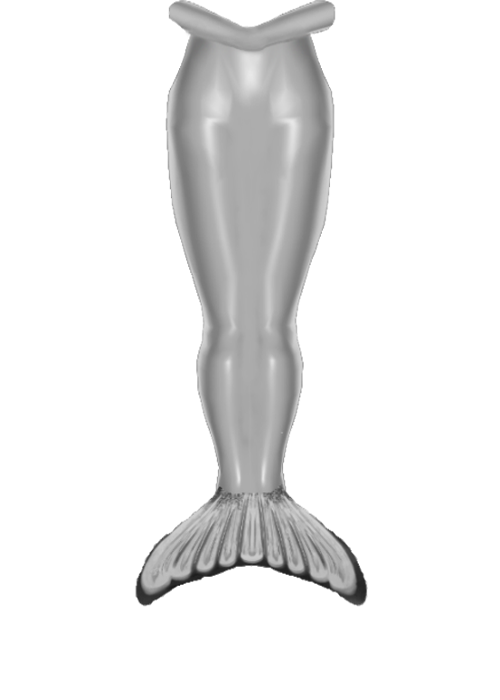
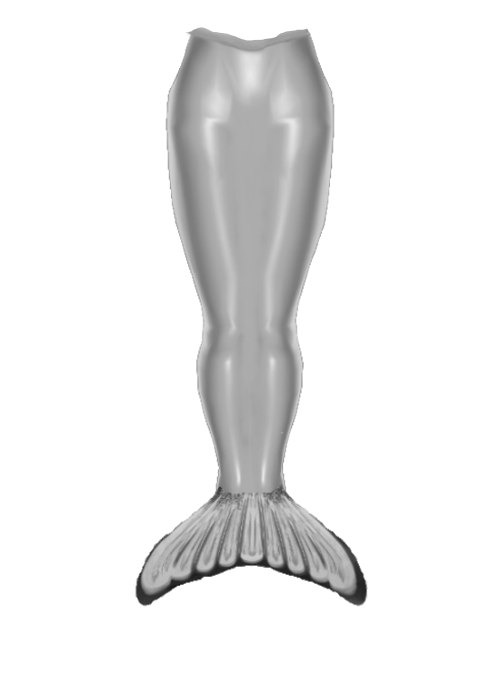
Item preveiws and tail fix
tail was clipping so thats fixed, and the preveiws are added in as well

Changed region(s): [[0.33, 0.0, 0.69, 0.06]]

diff --git a/BondageClub/Assets/Female3DCG/Female3DCG.js b/BondageClub/Assets/Female3DCG/Female3DCG.js
@@ -1046,14 +1046,15 @@ var AssetFemale3DCG = [
 			{ Name: "FrogtieStraps", Fetish: ["Leather"], Value: 25, Time: 5, Random: false, AllowLock: true, Prerequisite: ["NotSuspended", "CanKneel"], SetPose: ["Kneel"], Effect: ["ForceKneel"] },
 			{
 				Name: "MermaidTail", 
-				Value: 120, Left: 0, Top: 390, Difficulty: 15, Time: 30, RemoveTime: 20, AllowLock: true, DefaultColor: "#0D7800", ArousalZone: "ItemVulva",
+				Value: 120, Left: 0, Top: 380, Difficulty: 15, Time: 30, RemoveTime: 20, AllowLock: true, DefaultColor: "#0D7800", ArousalZone: "ItemVulva",
 				Fetish: ["Latex", "Pet"], 
 				Prerequisite: ["NotSuspended", "NotHogtied", "AccessVulva", "AccessVulvaSuitZip"],
 				Hide: ["Shoes", "Socks", "BodyLower", "ClothLower", "ItemFeet", "ItemBoots"],
 				SetPose: ["LegsClosed"],
 				Effect: ["Prone", "Freeze", "FillVulva", "Egged"], 
 				AllowEffect: ["Egged", "Vibrating", "FillVulva", "Edged"],
-				Block: ["ItemFeet", "ItemBoots"],
+				AllowPose: ["BackBoxTie", "BackCuffs", "BackElbowTouch", "TapedHands", "Yoked"],
+				Block: ["ItemFeet", "ItemBoots", "ItemPelvis", "ItemVulva", "ItemVulvaPiercings", "ItemButt"],
 			},
 			AssetSpankingToys
 		],
@@ -2382,27 +2383,27 @@ var AssetFemale3DCG = [
 		Top: 20,
 		Zone: [[325, 0, 75, 130]],
 		Asset: [
-			{ Name: "LeatherHoodSealed", Fetish: ["Leather"], Value: 70, Difficulty: 50, Time: 15, AllowLock: true, DefaultColor: "#555555", Prerequisite: ["NotHogtied", "CanUseAlphaHood"], Hide: ["Head", "HairFront", "HairBack", "Glasses", "ItemMouth", "ItemMouth2", "ItemMouth3", "Hat", "HairAccessory1", "HairAccessory2", "Mask"], HideItem: ["Snorkel"], Effect: ["BlindHeavy", "Prone", "GagLight", "BlockMouth"], Block: ["ItemMouth", "ItemMouth2", "ItemMouth3", "ItemEars", "ItemNeck", "ItemHead", "ItemNose"] },
-			{ Name: "PolishedSteelHood", Fetish: ["Metal"], Value: 85, Difficulty: 50, Time: 15, AllowLock: true, Hide: ["HairFront", "HairBack", "Glasses", "ItemMouth", "ItemMouth2", "ItemMouth3", "HairAccessory1", "HairAccessory2", "Mask"], HideItem: ["HatBand1", "HatBand2", "HatTiara1", "Snorkel"], Effect: ["BlindHeavy", "DeafLight", "Prone", "GagHeavy", "BlockMouth"], Block: ["ItemMouth", "ItemMouth2", "ItemMouth3", "ItemNeck", "ItemHead", "ItemNose", "ItemEars"] },
-			{ Name: "InflatedBallHood", Fetish: ["Latex"], Value: 65, Difficulty: 50, Time: 15, AllowLock: true, Prerequisite: ["GagUnique"], Hide: ["HairFront", "HairBack", "Glasses", "ItemMouth", "ItemMouth2", "ItemMouth3", "HairAccessory1", "HairAccessory2", "ItemHat", "Mask"], HideItem: ["Snorkel"], Effect: ["BlindHeavy", "DeafLight", "Prone", "BlockMouth"], AllowEffect: ["GagLight", "GagEasy", "GagMedium", "GagVeryHeavy", "BlockMouth"], Block: ["ItemMouth", "ItemMouth2", "ItemMouth3", "ItemNeck", "ItemHead", "ItemNose", "ItemEars"], Extended: true },
+			{ Name: "LeatherHoodSealed", Fetish: ["Leather"], Value: 70, Difficulty: 50, Time: 15, AllowLock: true, DefaultColor: "#555555", Prerequisite: ["NotHogtied", "CanUseAlphaHood"], Hide: ["Head", "HairFront", "HairBack", "Glasses", "ItemMouth", "ItemMouth2", "ItemMouth3", "Hat", "HairAccessory1", "HairAccessory2", "Mask"], HideItem: ["ItemHeadSnorkel"], Effect: ["BlindHeavy", "Prone", "GagLight", "BlockMouth"], Block: ["ItemMouth", "ItemMouth2", "ItemMouth3", "ItemEars", "ItemNeck", "ItemHead", "ItemNose"] },
+			{ Name: "PolishedSteelHood", Fetish: ["Metal"], Value: 85, Difficulty: 50, Time: 15, AllowLock: true, Hide: ["HairFront", "HairBack", "Glasses", "ItemMouth", "ItemMouth2", "ItemMouth3", "HairAccessory1", "HairAccessory2", "Mask"], HideItem: ["HatBand1", "HatBand2", "HatTiara1", "ItemHeadSnorkel"], Effect: ["BlindHeavy", "DeafLight", "Prone", "GagHeavy", "BlockMouth"], Block: ["ItemMouth", "ItemMouth2", "ItemMouth3", "ItemNeck", "ItemHead", "ItemNose", "ItemEars"] },
+			{ Name: "InflatedBallHood", Fetish: ["Latex"], Value: 65, Difficulty: 50, Time: 15, AllowLock: true, Prerequisite: ["GagUnique"], Hide: ["HairFront", "HairBack", "Glasses", "ItemMouth", "ItemMouth2", "ItemMouth3", "HairAccessory1", "HairAccessory2", "ItemHat", "Mask"], HideItem: ["ItemHeadSnorkel"], Effect: ["BlindHeavy", "DeafLight", "Prone", "BlockMouth"], AllowEffect: ["GagLight", "GagEasy", "GagMedium", "GagVeryHeavy", "BlockMouth"], Block: ["ItemMouth", "ItemMouth2", "ItemMouth3", "ItemNeck", "ItemHead", "ItemNose", "ItemEars"], Extended: true },
 			{
-				Name: "OldGasMask", Fetish: ["Leather"], Value: 85, Difficulty: 25, Time: 10, Random: false, AllowLock: true, Prerequisite: ["GasMask"], DefaultColor: "#313131", Hide: ["HairFront", "HairBack", "Glasses", "ItemMouth", "ItemMouth2", "ItemMouth3", "HairAccessory1", "HairAccessory2", "Mask"], HideItem: "Snorkel", Effect: ["BlockMouth"], Block: ["ItemMouth", "ItemMouth2", "ItemMouth3", "ItemNeck", "ItemHead", "ItemNose", "ItemEars"], Extended: true, RemoveItemOnRemove: [{ Group: "ItemHoodAddon", Name: "" }], Layer: [
+				Name: "OldGasMask", Fetish: ["Leather"], Value: 85, Difficulty: 25, Time: 10, Random: false, AllowLock: true, Prerequisite: ["GasMask"], DefaultColor: "#313131", Hide: ["HairFront", "HairBack", "Glasses", "ItemMouth", "ItemMouth2", "ItemMouth3", "HairAccessory1", "HairAccessory2", "Mask"], HideItem: ["ItemHeadSnorkel"], Effect: ["BlockMouth"], Block: ["ItemMouth", "ItemMouth2", "ItemMouth3", "ItemNeck", "ItemHead", "ItemNose", "ItemEars"], Extended: true, RemoveItemOnRemove: [{ Group: "ItemHoodAddon", Name: "" }], Layer: [
 					{ Name: "Mask", AllowColorize: true },
 					{ Name: "Light", AllowColorize: false }
 				]
 			},
-			{ Name: "SackHood", Fetish: ["Rope"], Value: 20, Difficulty: 3, Time: 5, Hide: ["HairFront", "HairBack", "Glasses", "ItemMouth", "ItemMouth2", "ItemMouth3", "HairAccessory1", "HairAccessory2", "Hat", "Mask"], HideItem: ["Snorkel"], Effect: ["Prone", "BlindHeavy", "BlockMouth"], Block: ["ItemEars", "ItemMouth", "ItemMouth2", "ItemMouth3", "ItemHead", "ItemNose"] },
+			{ Name: "SackHood", Fetish: ["Rope"], Value: 20, Difficulty: 3, Time: 5, Hide: ["HairFront", "HairBack", "Glasses", "ItemMouth", "ItemMouth2", "ItemMouth3", "HairAccessory1", "HairAccessory2", "Hat", "Mask"], HideItem: ["ItemHeadSnorkel"], Effect: ["Prone", "BlindHeavy", "BlockMouth"], Block: ["ItemEars", "ItemMouth", "ItemMouth2", "ItemMouth3", "ItemHead", "ItemNose"] },
 			{ Name: "LeatherHoodSensDep", Fetish: ["Leather"], Value: 100, Difficulty: 50, Time: 15, AllowLock: true, DefaultColor: "#555555", Prerequisite: ["NotHogtied", "CanUseAlphaHood"], Hide: ["Head", "HairFront", "HairBack", "Glasses", "ItemMouth", "ItemMouth2", "ItemMouth3", "Hat", "HairAccessory1", "HairAccessory2", "Mask"], Effect: ["BlindHeavy", "DeafHeavy", "Prone", "GagHeavy", "BlockMouth"], Block: ["ItemMouth", "ItemMouth2", "ItemMouth3", "ItemEars", "ItemNeck", "ItemHead", "ItemNose"] },
 			{ Name: "LatexHoodOpenHair", Fetish: ["Latex"], Value: 45, Difficulty: 50, Time: 15, AllowLock: true, DefaultColor: "#555555", Prerequisite: ["NotHogtied", "CanUseAlphaHood"], Hide: ["HairFront", "HairBack", "Hat", "HairAccessory1", "HairAccessory2", "Mask"], Alpha: [{ Group: ["Head"], Masks: [[150, 50, 200, 87]] }], Block: ["ItemEars", "ItemHead", "ItemNose"] },
-			{ Name: "LeatherHood", Fetish: ["Leather"], Value: 60, Difficulty: 50, Time: 15, AllowLock: true, DefaultColor: "#404040", Hide: ["HairFront", "HairBack", "Glasses", "ItemMouth", "ItemMouth2", "ItemMouth3", "HairAccessory1", "HairAccessory2", "Mask"], HideItem: ["Snorkel"], Effect: ["BlindHeavy", "DeafLight", "Prone", "GagNormal", "BlockMouth"], Block: ["ItemMouth", "ItemMouth2", "ItemMouth3", "ItemEars", "ItemNeck", "ItemHead", "ItemNose"] },
+			{ Name: "LeatherHood", Fetish: ["Leather"], Value: 60, Difficulty: 50, Time: 15, AllowLock: true, DefaultColor: "#404040", Hide: ["HairFront", "HairBack", "Glasses", "ItemMouth", "ItemMouth2", "ItemMouth3", "HairAccessory1", "HairAccessory2", "Mask"], HideItem: ["ItemHeadSnorkel"], Effect: ["BlindHeavy", "DeafLight", "Prone", "GagNormal", "BlockMouth"], Block: ["ItemMouth", "ItemMouth2", "ItemMouth3", "ItemEars", "ItemNeck", "ItemHead", "ItemNose"] },
 			{ Name: "LeatherHoodOpenEyes", Fetish: ["Leather"], Value: 40, Difficulty: 50, Time: 15, AllowLock: true, DefaultColor: "#404040", Hide: ["HairFront", "HairBack", "Glasses", "ItemMouth", "ItemMouth2", "ItemMouth3", "HairAccessory1", "HairAccessory2"], Effect: ["GagLight", "BlockMouth"], Block: ["ItemHead", "ItemNose", "ItemMouth", "ItemMouth2", "ItemMouth3", "ItemEars", "ItemNeck"] },
-			{ Name: "GasMask", Fetish: ["Leather"], Value: 50, Difficulty: 25, Time: 10, Random: false, AllowLock: true, DefaultColor: "#585858", Hide: ["HairFront", "HairBack", "Glasses", "ItemMouth", "ItemMouth2", "ItemMouth3", "HairAccessory1", "HairAccessory2", "Mask"], HideItem: ["Snorkel"], Effect: ["BlockMouth"], Block: ["ItemMouth", "ItemMouth2", "ItemMouth3", "ItemEars", "ItemNeck", "ItemHead", "ItemNose"] },
+			{ Name: "GasMask", Fetish: ["Leather"], Value: 50, Difficulty: 25, Time: 10, Random: false, AllowLock: true, DefaultColor: "#585858", Hide: ["HairFront", "HairBack", "Glasses", "ItemMouth", "ItemMouth2", "ItemMouth3", "HairAccessory1", "HairAccessory2", "Mask"], HideItem: ["ItemHeadSnorkel"], Effect: ["BlockMouth"], Block: ["ItemMouth", "ItemMouth2", "ItemMouth3", "ItemEars", "ItemNeck", "ItemHead", "ItemNose"] },
 			{ Name: "DogHood", Fetish: ["Leather", "Pet"], Value: 60, Difficulty: 50, Time: 15, Random: false, AllowLock: true, DefaultColor: "#404040", Hide: ["HairFront", "HairBack", "Glasses", "ItemMouth", "ItemMouth2", "ItemMouth3", "HairAccessory1", "HairAccessory2", "Mask"], Effect: ["GagNormal", "BlockMouth"], Block: ["ItemMouth", "ItemMouth2", "ItemMouth3", "ItemEars", "ItemHead", "ItemNose"] },
 			{ Name: "FoxyMask", Fetish: ["Pet"], Value: 50, Difficulty: 2, Time: 15, Random: false, AllowLock: true, Effect: ["GagLight", "BlockMouth"], Block: ["ItemMouth", "ItemMouth2", "ItemMouth3", "ItemHead", "ItemNose"] },
-			{ Name: "PonyHood", Fetish: ["Pony"], Value: -1, Difficulty: 50, Time: 15, Random: false, AllowLock: true, DefaultColor: "#404040", Hide: ["HairFront", "HairBack", "Glasses", "ItemMouth", "ItemMouth2", "ItemMouth3", "HairAccessory1", "HairAccessory2", "Mask"], HideItem: ["Snorkel"], Effect: ["BlindHeavy", "DeafLight", "Prone", "GagNormal", "BlockMouth"], Block: ["ItemMouth", "ItemMouth2", "ItemMouth3", "ItemEars", "ItemNeck", "ItemHead", "ItemNose"] },
-			{ Name: "LeatherHoodOpenMouth", Fetish: ["Leather"], Value: 50, Difficulty: 50, Time: 15, AllowLock: true, DefaultColor: "#404040", Hide: ["HairFront", "HairBack", "Glasses", "HairAccessory1", "HairAccessory2", "Mask"], HideItem: ["Snorkel"], Effect: ["Prone", "BlindHeavy"], Block: ["ItemEars", "ItemHead", "ItemNose"] },
-			{ Name: "CanvasHood", Value: 50, Difficulty: 20, Time: 15, AllowLock: true, DefaultColor: "#a5a095", Hide: ["HairFront", "HairBack", "Glasses", "ItemMouth", "ItemMouth2", "ItemMouth3", "HairAccessory1", "HairAccessory2", "Mask"], HideItem: ["Snorkel"], Effect: ["Prone", "BlindHeavy", "GagHeavy", "BlockMouth", "DeafLight"], Block: ["ItemMouth", "ItemMouth2", "ItemMouth3", "ItemEars", "ItemNose", "ItemHead"] },
-			{ Name: "Pantyhose", Value: 10, Time: 5, Hide: ["Glasses", "Mask", "HairFront", "HairBack", "HairAccessory1", "HairAccessory2"], HideItem: ["Snorkel"], BuyGroup: "Pantyhose", Effect: ["BlindLight", "Prone"], Block: ["ItemMouth", "ItemMouth2", "ItemMouth3", "ItemNose", "ItemHead"] }
+			{ Name: "PonyHood", Fetish: ["Pony"], Value: -1, Difficulty: 50, Time: 15, Random: false, AllowLock: true, DefaultColor: "#404040", Hide: ["HairFront", "HairBack", "Glasses", "ItemMouth", "ItemMouth2", "ItemMouth3", "HairAccessory1", "HairAccessory2", "Mask"], HideItem: ["ItemHeadSnorkel"], Effect: ["BlindHeavy", "DeafLight", "Prone", "GagNormal", "BlockMouth"], Block: ["ItemMouth", "ItemMouth2", "ItemMouth3", "ItemEars", "ItemNeck", "ItemHead", "ItemNose"] },
+			{ Name: "LeatherHoodOpenMouth", Fetish: ["Leather"], Value: 50, Difficulty: 50, Time: 15, AllowLock: true, DefaultColor: "#404040", Hide: ["HairFront", "HairBack", "Glasses", "HairAccessory1", "HairAccessory2", "Mask"], HideItem: ["ItemHeadSnorkel"], Effect: ["Prone", "BlindHeavy"], Block: ["ItemEars", "ItemHead", "ItemNose"] },
+			{ Name: "CanvasHood", Value: 50, Difficulty: 20, Time: 15, AllowLock: true, DefaultColor: "#a5a095", Hide: ["HairFront", "HairBack", "Glasses", "ItemMouth", "ItemMouth2", "ItemMouth3", "HairAccessory1", "HairAccessory2", "Mask"], HideItem: ["ItemHeadSnorkel"], Effect: ["Prone", "BlindHeavy", "GagHeavy", "BlockMouth", "DeafLight"], Block: ["ItemMouth", "ItemMouth2", "ItemMouth3", "ItemEars", "ItemNose", "ItemHead"] },
+			{ Name: "Pantyhose", Value: 10, Time: 5, Hide: ["Glasses", "Mask", "HairFront", "HairBack", "HairAccessory1", "HairAccessory2"], HideItem: ["ItemHeadSnorkel"], BuyGroup: "Pantyhose", Effect: ["BlindLight", "Prone"], Block: ["ItemMouth", "ItemMouth2", "ItemMouth3", "ItemNose", "ItemHead"] }
 		],
 	},
 
